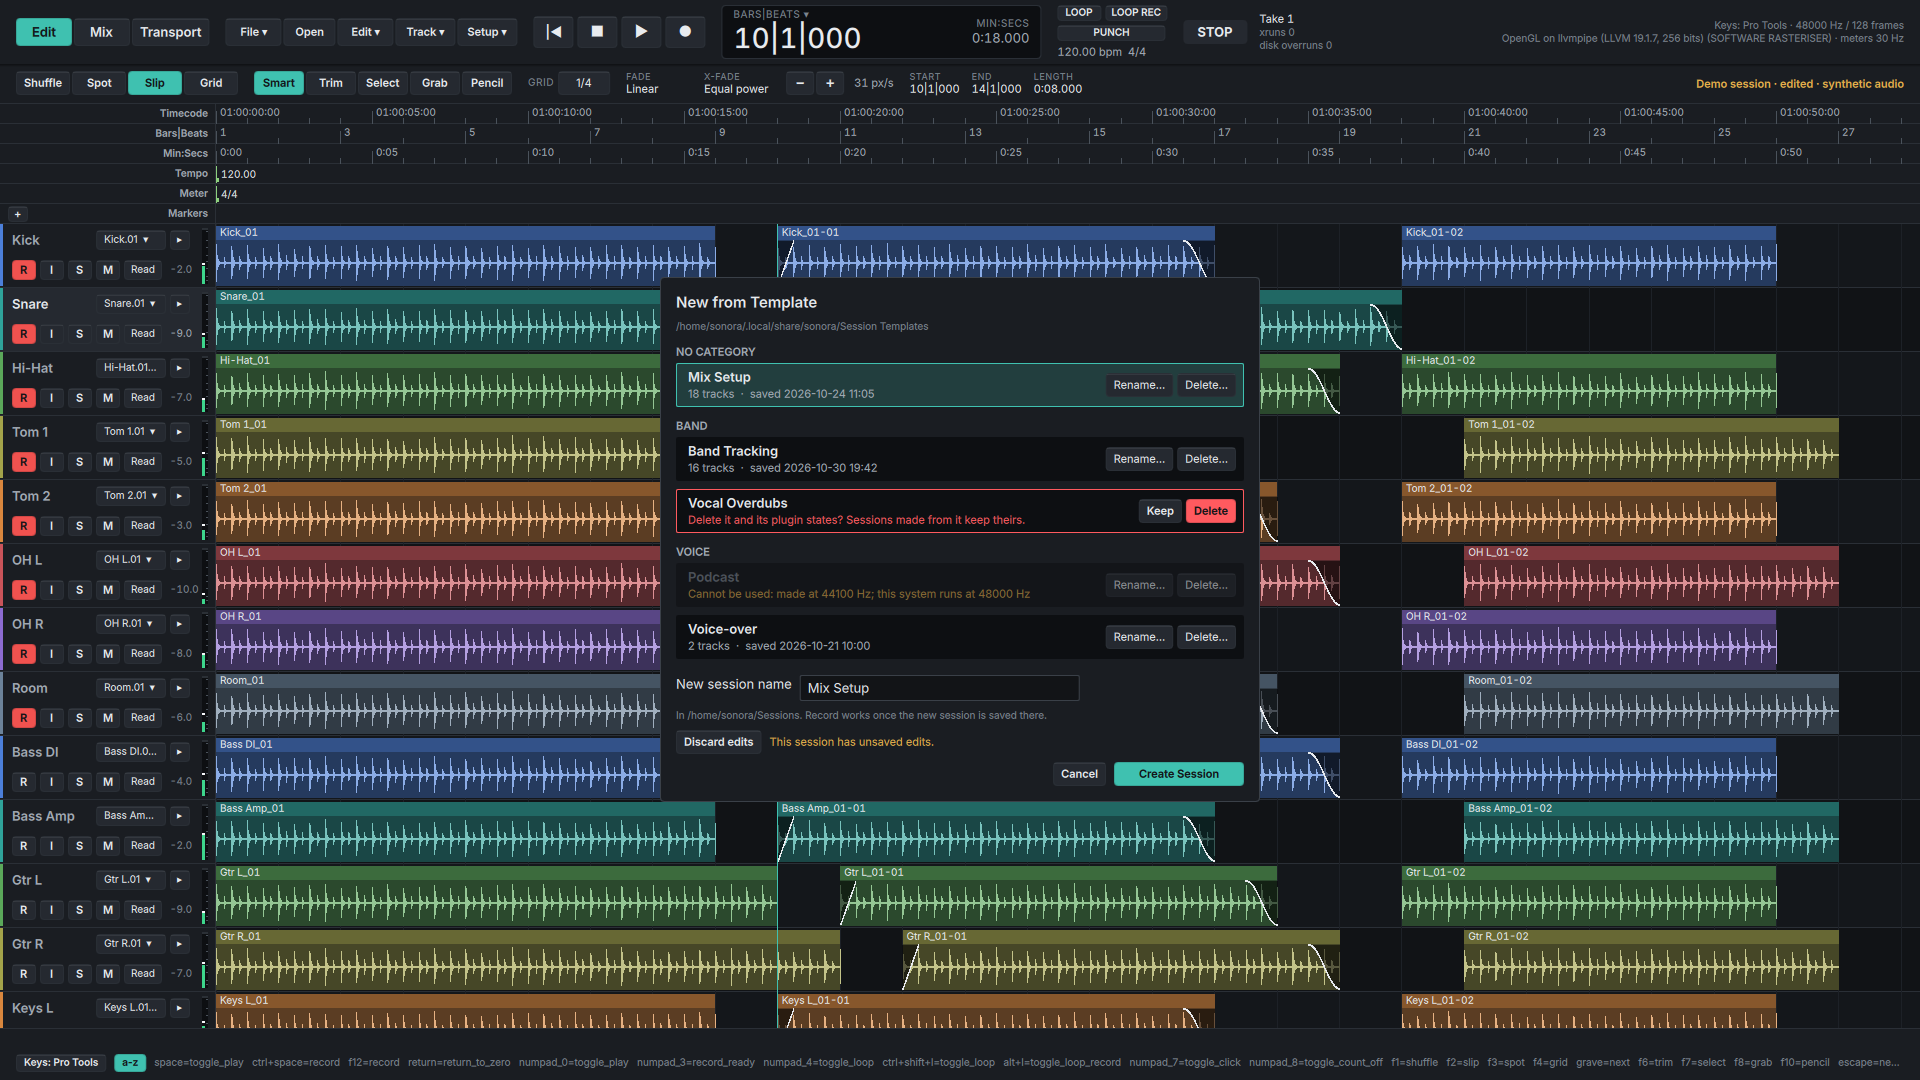
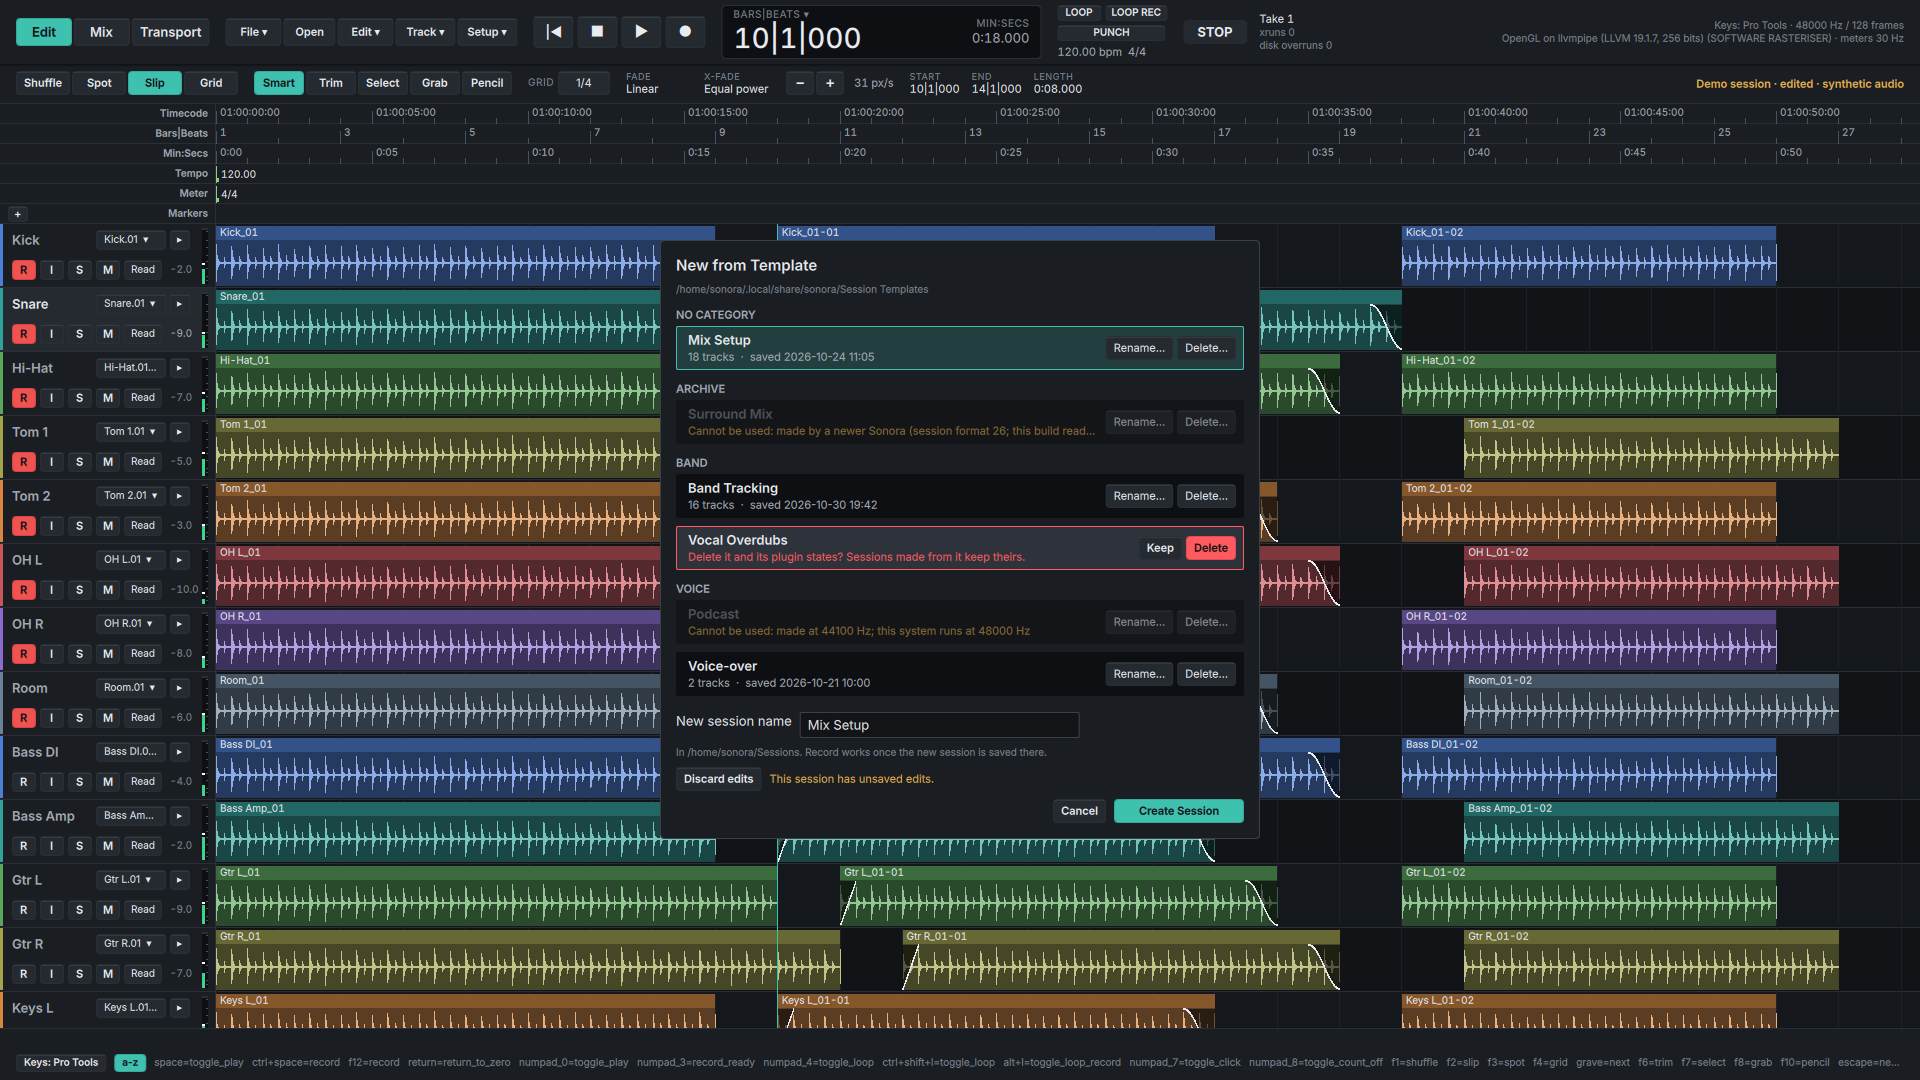
daw.model.session_mgmt: close the newer-format template file before the browser lists it; regenerate screenshot

Changed region(s): [[0.3438, 0.2139, 0.6562, 0.7944]]

diff --git a/ui/qt/src/scenes/new_from_template.cpp b/ui/qt/src/scenes/new_from_template.cpp
@@ -70,7 +70,12 @@ const ShotRegistrar registrar{[] {
         const QString future_file = session_file_path(archive, QStringLiteral("Surround Mix"));
         QDir().mkpath(QFileInfo(future_file).absolutePath());
         QFile ff(future_file);
-        if (ff.open(QIODevice::WriteOnly)) ff.write(future);
+        // Closed before the browser lists the folder: left open, the bytes
+        // were still buffered and the row never appeared.
+        if (ff.open(QIODevice::WriteOnly)) {
+            ff.write(future);
+            ff.close();
+        }
         c.session.setTemplatesDir(dir.path());
         c.model.invoke(QStringLiteral("app.new_from_template"), -1);
         QQuickItem* root = c.view.rootObject();
